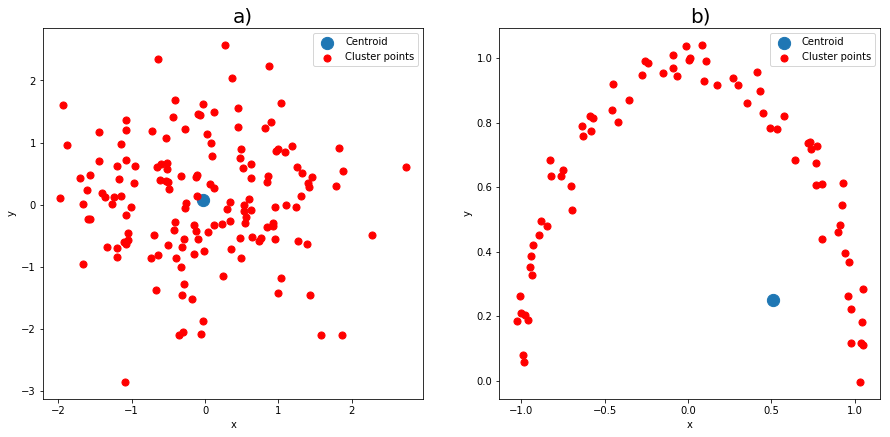
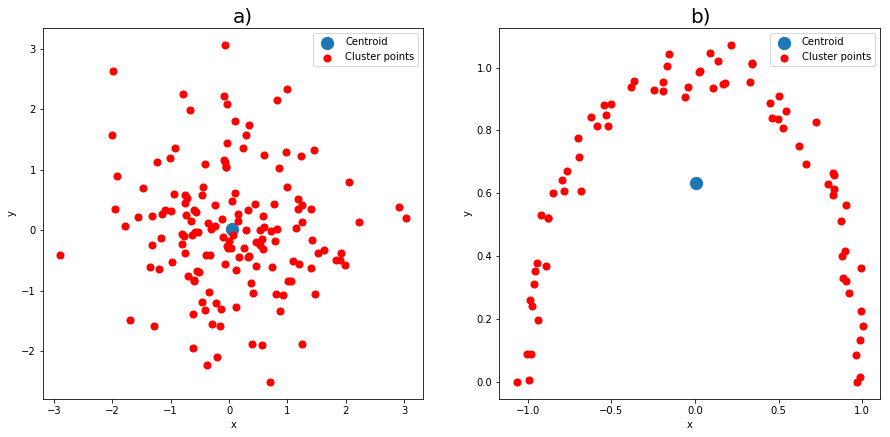
added medoids img and definition

diff --git a/text/hlavac-thesis.tex b/text/hlavac-thesis.tex
@@ -320,13 +320,14 @@ If a host is known to belong to a cluster $A$ and its behavior suddenly starts t
 %========================================CHAPTER==================================
 
 \chapter{Theoretical Overview}\label{ch:theory}
+
 This chapter introduces a theoretical background to explain clustering methods, the topic of non-metric spaces and the problem of representative selection.
 
 \section{Introduction to Clustering}\label{sec:clust_intro}
 As defined in \cite{guttag2016introduction}, clustering is an unsupervised machine learning method that organizes objects into groups so that each group consists of members that are similar in some way.
 Without any prior knowledge of the data, this method looks for structures in feature vectors.
 Variability can be calculated for each cluster \textit{c}, and it shows how much objects in given cluster differ.
-Variability and dissimilarity are two properties defined for a better understanding of the data. \\
+Variability and dissimilarity are two properties defined for a better understanding of the data.
 Variability is defined as
 \begin{equation}
 \mathrm{variability}(c) = \sum_{e \in c} \mathrm{distance}(\mathrm{mean}(c), e)^2\:,
@@ -351,7 +352,7 @@ For clustering, the aim is to keep the dissimilarity of all clusters from the da
 Given this definition, the best way to cluster every dataset would be to put each object to its cluster.
 That would not lead to any reasonable result.
 Therefore there is a constraint added for clustering methods.
-It can be either the maximum number of clusters or the maximum distance between two clusters. \\
+It can be either the maximum number of clusters or the maximum distance between two clusters.
 
 A straightforward example of clustering is a method called agglomerative hierarchical clustering.
 Given $N$ objects in a dataset, it creates $N$ clusters - meaning there is a cluster for each object.
@@ -359,7 +360,7 @@ The method looks for two closest clusters and merges them into one.
 This agglomerative merging continues until the constraint is met, meaning until there is a certain number of clusters or until the distance between closest clusters exceeds a certain threshold.
 This method is a greedy algorithm, and therefore it might not result in globally optimal clustering.
 Also, the algorithm has a time complexity of $\mathcal{O}(n^2)$.
-Therefore, it cannot be used in big datasets. \\
+Therefore, it cannot be used in big datasets.
 
 An example of a much faster clustering algorithm that is also greedy is $K$-means.
 The '$K$' in $K$-means stands for the number of clusters that we want to get as a result.
@@ -386,7 +387,7 @@ Figure~\ref{alg:kmeans} shows the pseudocode of $K$-means.
 
 This algorithm is fast, it has time complexity $\mathcal{O}(k \cdot n)$, where $n$ is the number of objects in a dataset and $d$ is the computation time of a distance between two points.
 It is the most common clustering algorithm as it typically converges in a few iterations.
-For more details about basic clustering algorithms see \cite{guttag2016introduction}.\\
+For more details about basic clustering algorithms see \cite{guttag2016introduction}.
 
 %summary
 The clustering as explained in this section has some restrictions that make it inapplicable for anomaly detection in this work.
@@ -394,7 +395,7 @@ Firstly the number of clusters is not previously known, so choosing $K$ for $K$-
 Next section delves deeper into what it means when a measure does not form a metric space.
 
 \section{Clustering on Topological Space}\label{sec:cluster_topo}
-This section explains the difference between metric and topological space and clustering approaches for topological spaces. \\
+This section explains the difference between metric and topological space and clustering approaches for topological spaces.
 
 A metric space, as defined in \cite{choudhary1992elements}, is a pair $(X, d)$ where $X$ is a set and $d$ is a mapping from  $X \times X \to \mathbb{R}$\todo{ad pripominka, ze by to melo byt NxN, takhle to je popsane v te citovane knize. Prijde mi, ze je to obecnejsi a drzim se toho jak to popsal ten matematik.} which satisfies the following conditions:
 \begin{enumerate}
@@ -405,7 +406,7 @@ A metric space, as defined in \cite{choudhary1992elements}, is a pair $(X, d)$ w
 \end{enumerate}
 
 The similarity measure that is used in this thesis as explained in Section~\ref{sec:ctadf} does not fulfill the last point of the definition above. Furthermore, it is a pairwise similarity that forms form a subspace for comparing each pair of samples.
-This is why this similarity measure forms a topological space, which is defined according to, e.g., \cite{stahl2014introduction}. \\
+This is why this similarity measure forms a topological space, which is defined according to, e.g., \cite{stahl2014introduction}.
 
 Given any set $S$ a topology on $S$ is a family $F ={F_{\alpha} | \alpha \in A}$, where $A$ is some indexing set, each $F_{\alpha}  \subseteq S$\todo{ad poznamka proc je to tady vsunute - je to prima citace z te knihy}, and with the following properties:
 \begin{enumerate}
@@ -414,22 +415,22 @@ Given any set $S$ a topology on $S$ is a family $F ={F_{\alpha} | \alpha \in A}$
     \item [(iii)] The intersection of any two sets of $F$ is in $F$.
     \item [(iv)] The union of any number of sets of $F$ is in $F$.
 \end{enumerate}
-The ordered pair ($S, F$) is called a topological space. \\
+The ordered pair ($S, F$) is called a topological space.
 
-\todo{explain about neighborhoods}
+\todo{explain about neighborhoods??}
 
 K-Means clustering from the previous section cannot be used in topological space as the centroids do not exist.
 In many cases, there is no prior knowledge of k, as is the case in this thesis.
-A popular method that is used for clustering in non-metric spaces is called community-based clustering. \\
+A popular method that is used for clustering in non-metric spaces is called community-based clustering.
 
 Community-based clustering detects communities in the data.
 A community is a subset of examples in the data, that is densely connected with each other.
 One of the ways how to detect communities in a graph is to create a full-adjacency matrix.
 This matrix contains all connections between all nodes in the given graph.
-Analyzing the matrix then can tell us about the densities in different parts of graphs.\\
+Analyzing the matrix then can tell us about the densities in different parts of graphs.
 
 Louvain method is a similar approach to clustering when we do not have a simple graph but a set of samples and a pairwise similarity measure.
-This method relies on creating a full similarity matrix for the whole dataset and then looking for communities in the data. \\
+This method relies on creating a full similarity matrix for the whole dataset and then looking for communities in the data.
 
 In Cognitive Targeted Anomaly Detection Framework Louvain method cannot be used directly as calculating the full similarity matrix has a complexity of $\mathcal(n^2)$, which is impossible to calculate for a large network.
 That is why an approximative clustering method is used.
@@ -443,7 +444,7 @@ If samples differ more than a predefined threshold, a new cluster prototype is c
 This section focuses on the idea of finding a representation of clusters.
 Clustering huge datasets can result in big clusters of several tens of thousands of objects in them.
 Computational operations such as assigning new objects to clusters (e. g. $K$-Nearest Neighbors) are dependent on the number of objects in each cluster or the representation of these clusters.
-If it was possible to represent these clusters in a different way than keeping all track of all of the objects, further operations on these clusters would run faster. \\
+If it was possible to represent these clusters in a different way than keeping all track of all of the objects, further operations on these clusters would run faster.
 
 A cluster prototype is a data sample that represents all samples in the data cluster.
 According to \ref{tan2014introduction}, there are three motivations for finding the most representative cluster prototypes:
@@ -454,7 +455,7 @@ According to \ref{tan2014introduction}, there are three motivations for finding 
 \end{itemize}
 All of these apply to the NBAD aswell.
 Therefore, summarizing the behavior of the whole cluster into a cluster prototype is desirable.
-As is finding the smallest possible number of prototypes for each cluster for efficient finding nearest neighbors when adding new hosts to their corresponding clusters. \\
+As is finding the smallest possible number of prototypes for each cluster for efficient finding nearest neighbors when adding new hosts to their corresponding clusters.
 
 \subsection{Definition of Representative Selection for Non-Metric Spaces}\label{sec:def_rep_selection}
 Representative selection aims to find a minimal subset of examples from a cluster, that carries sufficient information about the whole cluster.
@@ -485,7 +486,6 @@ well for large datasets.
 This definition of representative selection problem serves well for this paper.
 
 \subsection{Representative Selection in a Metric Space}\label{sec:rep_select_metric}
-
 A metric dataset has to have the same number of features for each sample and a metric that fulfills all the requisites in the definition of metric space.
 Selecting a prototype from this dataset is often best achieved by calculating a centroid for a given cluster.
 A centroid can be calculated as the mean of the points in the cluster.
@@ -493,24 +493,34 @@ An example of a centroid in a cluster can be found in Figure~\ref{img:centroids}
 Other ways of calculating medoids can be used, e.g. weighted average of all points. \\
 
 \begin{figure}
-   \includegraphics[width=\linewidth]{img/centroids.png}
+  \includegraphics[width=\linewidth]{img/centroids.png}
+  \caption{Centroids of a cluster calculated as mean of all points.}
   \label{img:centroids}
-  \caption{Centroid of a cluster calculated as mean of all points.}
 \end{figure}
 
-However, if a calculated centroid is not meaningful (see Figure~\ref{img:centroids} b)), a medoid can be selected as a prototype.
-A medoid is the most representative point of a cluster.
+However, if a calculated centroid is not meaningful (see Figure~\ref{img:centroids} b)\todo{references not working? why?}), a medoid can be selected as an alternative to it.
+A medoid is a point that is in the set that minimizes the average distance to all the other points in the set.
+It can be thought of as a median of the dataset \todo{this is good for an explanation, but not very scientific, as it is not entirely true, how to explain better?}.
+Formally, medoid is defined as:
+\begin{equation}
+x_{medoid} = \mathrm{argmin}_{y in \{x_1, x_2, ..., x_n\}} \sum_{i=1}^{n}{d(y, x_i)}\:,
+\end{equation}
+where $x_1, x_2, ..., x_n$ is a set of $n$ points in a space with a distance function $d$. \todo{definition taken from wikipedia - similar is in xu2011network but not that nice - how to cite?? }
+In Figure~\ref{img:medoids} medoids were chosen instead of centroids.
+\begin{figure}
+  \includegraphics[width=\linewidth]{img/medoids.png}
+  \caption{Choice of medoids}
+  \label{img:medoids}
+\end{figure}
 
 \subsection{Representative Selection in a Topological Space}\label{sec:rep_select_arbitrary}
 Clearly, the concept of centroid explained in the previous section cannot be used to solve the problem of finding a representative in an arbitrary space (i.e., topological space).
-Medoids, of course, can be selected for datasets in arbitrary spaces. \\
+Medoids, of course, can be selected for datasets in arbitrary spaces.
 
-$K$-Medoids algorithm that uses the concept of medoids instead of centroids that are used in the $K$-Means algorithm.
+$K$-Medoids algorithm that uses the concept of medoids instead of centroids that are used in the $K$-Means algorithm while retaining its good properties.
+$K$-Medoids is most commonly used for representative selection in topological spaces.
 
-
-\todo{general approaches}
-
-There are not many well-known approaches to solve this problem.
+There are not many more well-explored methods for solving this problem.
 The one that is used in this thesis is explained in \cite{liebman2015representative}.
 They took the main ideas of $K$-Means clustering and transformed them for usage in a non-metric space with a pair-wise similarity measure.
 Instead of stating the $K$ in advance they state a parameter  $ 0 \leq \delta \leq 1$ that serves as a constraint.
@@ -663,8 +673,8 @@ All of these datasets are in space of two or three dimensions.
 They can be easily visualized on graphs and nicely show some of the specific properties of implemented algorithms.
 \begin{figure}
    \includegraphics[width=\linewidth]{img/datasets.png}
-  \label{img:datasets}
   \caption{Graphs of all datasets}
+  \label{img:datasets}
 \end{figure}
 Similarity measure used in these datasets was Euclidean distance. \\
 
@@ -745,8 +755,8 @@ C & 400 & 19 & 20 & 20 &20  \\ \hline
 
 \begin{figure}
    \includegraphics[width=\linewidth]{img/exp1_blobs.png}
-  \label{img:exp1_blobs}
   \caption{Confusion matrices for Blobs 3D dataset}
+  \label{img:exp1_blobs}
 \end{figure}
 
 \textbf{Overlap}
@@ -764,8 +774,8 @@ C & 640 & 22 & 24 & 24 & 24  \\ \hline
 
 \begin{figure}
    \includegraphics[width=\linewidth]{img/exp1_overlap.png}
-  \label{img:exp1_overlap}
   \caption{Confusion matrices for Overlap dataset}
+  \label{img:exp1_overlap}
 \end{figure}
 
 \textbf{Moons}
@@ -782,8 +792,8 @@ B & 600 & 19 & 18 & 18 & 18 \\ \hline
 
 \begin{figure}
    \includegraphics[width=\linewidth]{img/exp1_moons.png}
-  \label{img:exp1_moons}
   \caption{Confusion matrices for Moons dataset}
+  \label{img:exp1_moons}
 \end{figure}
 
 \textbf{Circles}
@@ -800,8 +810,8 @@ B & 600 & 8 & 7 & 7 & 7 \\ \hline
 
 \begin{figure}
    \includegraphics[width=\linewidth]{img/exp1_circles.png}
-  \label{img:exp1_circles}
   \caption{Confusion matrices for Circles dataset}
+  \label{img:exp1_circles}
 \end{figure}
 
 
@@ -813,8 +823,8 @@ However, when the results were visualized for one cluster, the delta medoids alg
 As can be seen on Figure~\ref{img:blobs_border_select}, the algorithm picked the samples on the edge of the dataset that did not cover many points in their neighborhoods.
 \begin{figure}
    \includegraphics[width=\linewidth]{img/delta_medoids_select.png}
-  \label{img:blobs_border_select}
   \caption{$\delta$-Medoids choosing the border samples of a cluster}
+  \label{img:blobs_border_select}
 \end{figure}
 Selecting the border samples clearly was not intended and the $\delta$-Medoids algorithm had to select only the relevant samples.
 The relevance of a representative was determined to the number of points that fit into its $\delta$-neighborhood. \todo{where to list the changes, here or in the theoretical chapter, theory better I think}
@@ -854,8 +864,8 @@ C & 400 & 20 & 21 & 21 & 21 \\ \hline
 
 \begin{figure}
    \includegraphics[width=\linewidth]{img/exp2_blobs.png}
-  \label{img:exp2_blobs}
   \caption{Confusion matrices for Blobs 3D dataset}
+  \label{img:exp2_blobs}
 \end{figure}
 
 \textbf{Overlap}
@@ -873,8 +883,8 @@ C & 640 & 19 & 19 & 19 & 19  \\ \hline
 
 \begin{figure}
    \includegraphics[width=\linewidth]{img/exp2_overlap.png}
-  \label{img:exp2_overlap}
   \caption{Confusion matrices for Overlap dataset}
+  \label{img:exp2_overlap}
 \end{figure}
 
 \textbf{Moons}
@@ -891,8 +901,8 @@ B & 600 & 16 & 20 & 20 & 20 \\ \hline
 
 \begin{figure}
    \includegraphics[width=\linewidth]{img/exp2_moons.png}
-  \label{img:exp2_moons}
   \caption{Confusion matrices for Moons dataset}
+  \label{img:exp2_moons}
 \end{figure}
 
 \textbf{Circles}
@@ -909,8 +919,8 @@ B & 600 & 8 & 8 & 8 & 8 \\ \hline
 
 \begin{figure}
    \includegraphics[width=\linewidth]{img/exp2_circles.png}
-  \label{img:exp2_circles}
   \caption{Confusion matrices for Circles dataset}
+  \label{img:exp2_circles}
 \end{figure}
 
 
@@ -919,8 +929,8 @@ B & 600 & 8 & 8 & 8 & 8 \\ \hline
 The results of this experiment empirically supported the expected result of not selecting the border samples from a dataset as can be seen on Figure~\ref{img:blobs_good_select}
 \begin{figure}
   \includegraphics[width=\linewidth]{img/delta_medoids_select_better.png}
-  \label{img:blobs_good_select}
   \caption{$\delta$-Medoids choosing only relevant samples of a cluster}
+  \label{img:blobs_good_select}
 \end{figure}
 This sanity check by visualization fulfilled all of the expectation.
 
@@ -965,8 +975,8 @@ The results for different methods are listed below.
 
 \begin{figure}
    \includegraphics[width=\linewidth]{img/exp3_pendigits.png}
-  \label{img:exp3_pendigits}
   \caption{Confusion matrices for Pendigits dataset}
+  \label{img:exp3_pendigits}
 \end{figure}
 
 \subsection{Conclusion}
